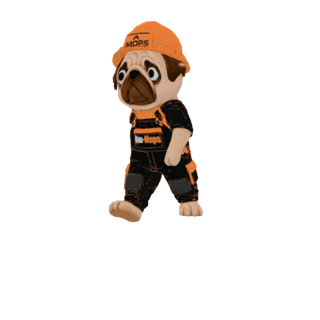
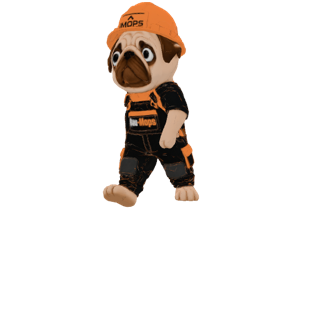
feat(canvas): Preis je Knoten + ruhigerer Mops-Gruß in Laufrichtung
- Jedes Canvas-Kästchen zeigt jetzt den Preis der LV-Position hinter dem
  Auftrag ("Name · 8.700 €") — Ausreißer/Fehler fallen auf einen Blick auf.
  Preis = LVKalkulator.kalkulationFuer(pos).gesamtpreis; ohne LV-Position
  oder ohne Preis nur der Name. Angehängt an den Titel (der kg-String
  speist ein Dropdown und bleibt unberührt).
- Mops-Gruß: Frames ohne Pro-Frame-Zittern neu gerendert (einmal zentriert
  statt Bounding-Box-Nachlauf) und Laufrichtung gedreht — er trottet jetzt
  nach links, passend zur Beinbewegung, ploppt kurz rein statt mitzuwachsen.

Thermodynamik der Arbeit: der Preis steht dort, wo die Arbeit sichtbar ist.

Changed region(s): [[0.3125, 0.0, 0.6562, 0.7188]]

diff --git a/iMOPS-Construction-Grid-Baustellen-Management./Views/MopsGruss.swift b/iMOPS-Construction-Grid-Baustellen-Management./Views/MopsGruss.swift
@@ -44,7 +44,8 @@ struct MopsGrussView: View {
     var abgeschlossen: () -> Void
 
     @State private var index = 0
-    @State private var drin = false
+    @State private var sichtbar = false     // Ein-/Ausblenden (Deckkraft + kurzer Pop)
+    @State private var xFrac = 0.60         // trottet von rechts (0.60) nach links (0.40)
     private let frames = MopsGrussBilder.frames
     private let fps: Double = 27
 
@@ -57,11 +58,10 @@ struct MopsGrussView: View {
                         .interpolation(.high)
                         .scaledToFit()
                         .frame(width: 180)
-                        .scaleEffect(drin ? 1 : 0.82)
-                        .opacity(drin ? 1 : 0)
+                        .scaleEffect(sichtbar ? 1 : 0.86)
+                        .opacity(sichtbar ? 1 : 0)
                         .shadow(color: .black.opacity(0.28), radius: 12, y: 8)
-                        .position(x: geo.size.width * (drin ? 0.56 : 0.44),
-                                  y: geo.size.height * 0.62)
+                        .position(x: geo.size.width * xFrac, y: geo.size.height * 0.62)
                 }
             }
         }
@@ -71,13 +71,15 @@ struct MopsGrussView: View {
 
     private func starte() {
         guard !frames.isEmpty else { abgeschlossen(); return }
-        withAnimation(.easeOut(duration: 0.9)) { drin = true }   // sanft rein + nach rechts
+        let laufDauer = Double(frames.count) / fps          // ~1 s
+        withAnimation(.easeOut(duration: 0.2)) { sichtbar = true }        // schnell rein, kein Mitwachsen
+        withAnimation(.linear(duration: laufDauer)) { xFrac = 0.40 }      // gleichmäßig nach links trotten
         Task { @MainActor in
             for i in frames.indices {
                 index = i
                 try? await Task.sleep(nanoseconds: UInt64(1_000_000_000 / fps))
             }
-            withAnimation(.easeIn(duration: 0.22)) { drin = false }
+            withAnimation(.easeIn(duration: 0.22)) { sichtbar = false }   // nur ausblenden, nicht zurückspringen
             try? await Task.sleep(nanoseconds: 240_000_000)
             abgeschlossen()
         }

diff --git a/iMOPS-Construction-Grid-Baustellen-Management./Service/Grap8Graph.swift b/iMOPS-Construction-Grid-Baustellen-Management./Service/Grap8Graph.swift
@@ -93,7 +93,7 @@ extension Grap8Graph {
                 position: Position(x: 40 + Double(platz.spalte) * 260,
                                    y: 40 + Double(platz.zeile) * 180),
                 data: Daten(
-                    title: Kausalkette.bezeichnung(auftrag),
+                    title: titelMitPreis(auftrag),
                     kg: kostengruppe(auftrag),
                     icon: symbol(auftrag),
                     base: zustand(auftrag),
@@ -233,6 +233,26 @@ extension Grap8Graph {
         case .onHold:     return "inArbeit"
         case .pending:    return "offen"
         }
+    }
+
+    /// Der Knoten-Titel mit dem Preis der LV-Position dahinter — damit man auf einen
+    /// Blick pro Kästchen sieht, was der Baustein kostet, und Ausreißer sofort auffallen.
+    /// Ohne verknüpfte LV-Position (nativ angelegter Auftrag) oder ohne Preis: nur der Name.
+    private static func titelMitPreis(_ auftrag: Auftrag) -> String {
+        let name = Kausalkette.bezeichnung(auftrag)
+        guard let pos = auftrag.lvPosition else { return name }
+        let preis = LVKalkulator.kalkulationFuer(pos).gesamtpreis
+        guard preis > 0 else { return name }
+        return "\(name)  ·  \(euro(preis))"
+    }
+
+    /// Kurzer Euro-Betrag ohne Nachkommastellen (z. B. „8.700 €") — zum Überfliegen.
+    private static func euro(_ wert: Double) -> String {
+        let f = NumberFormatter()
+        f.numberStyle = .currency
+        f.currencyCode = "EUR"
+        f.maximumFractionDigits = 0
+        return f.string(from: NSNumber(value: wert)) ?? "\(Int(wert.rounded())) €"
     }
 
     private static func kostengruppe(_ auftrag: Auftrag) -> String {
